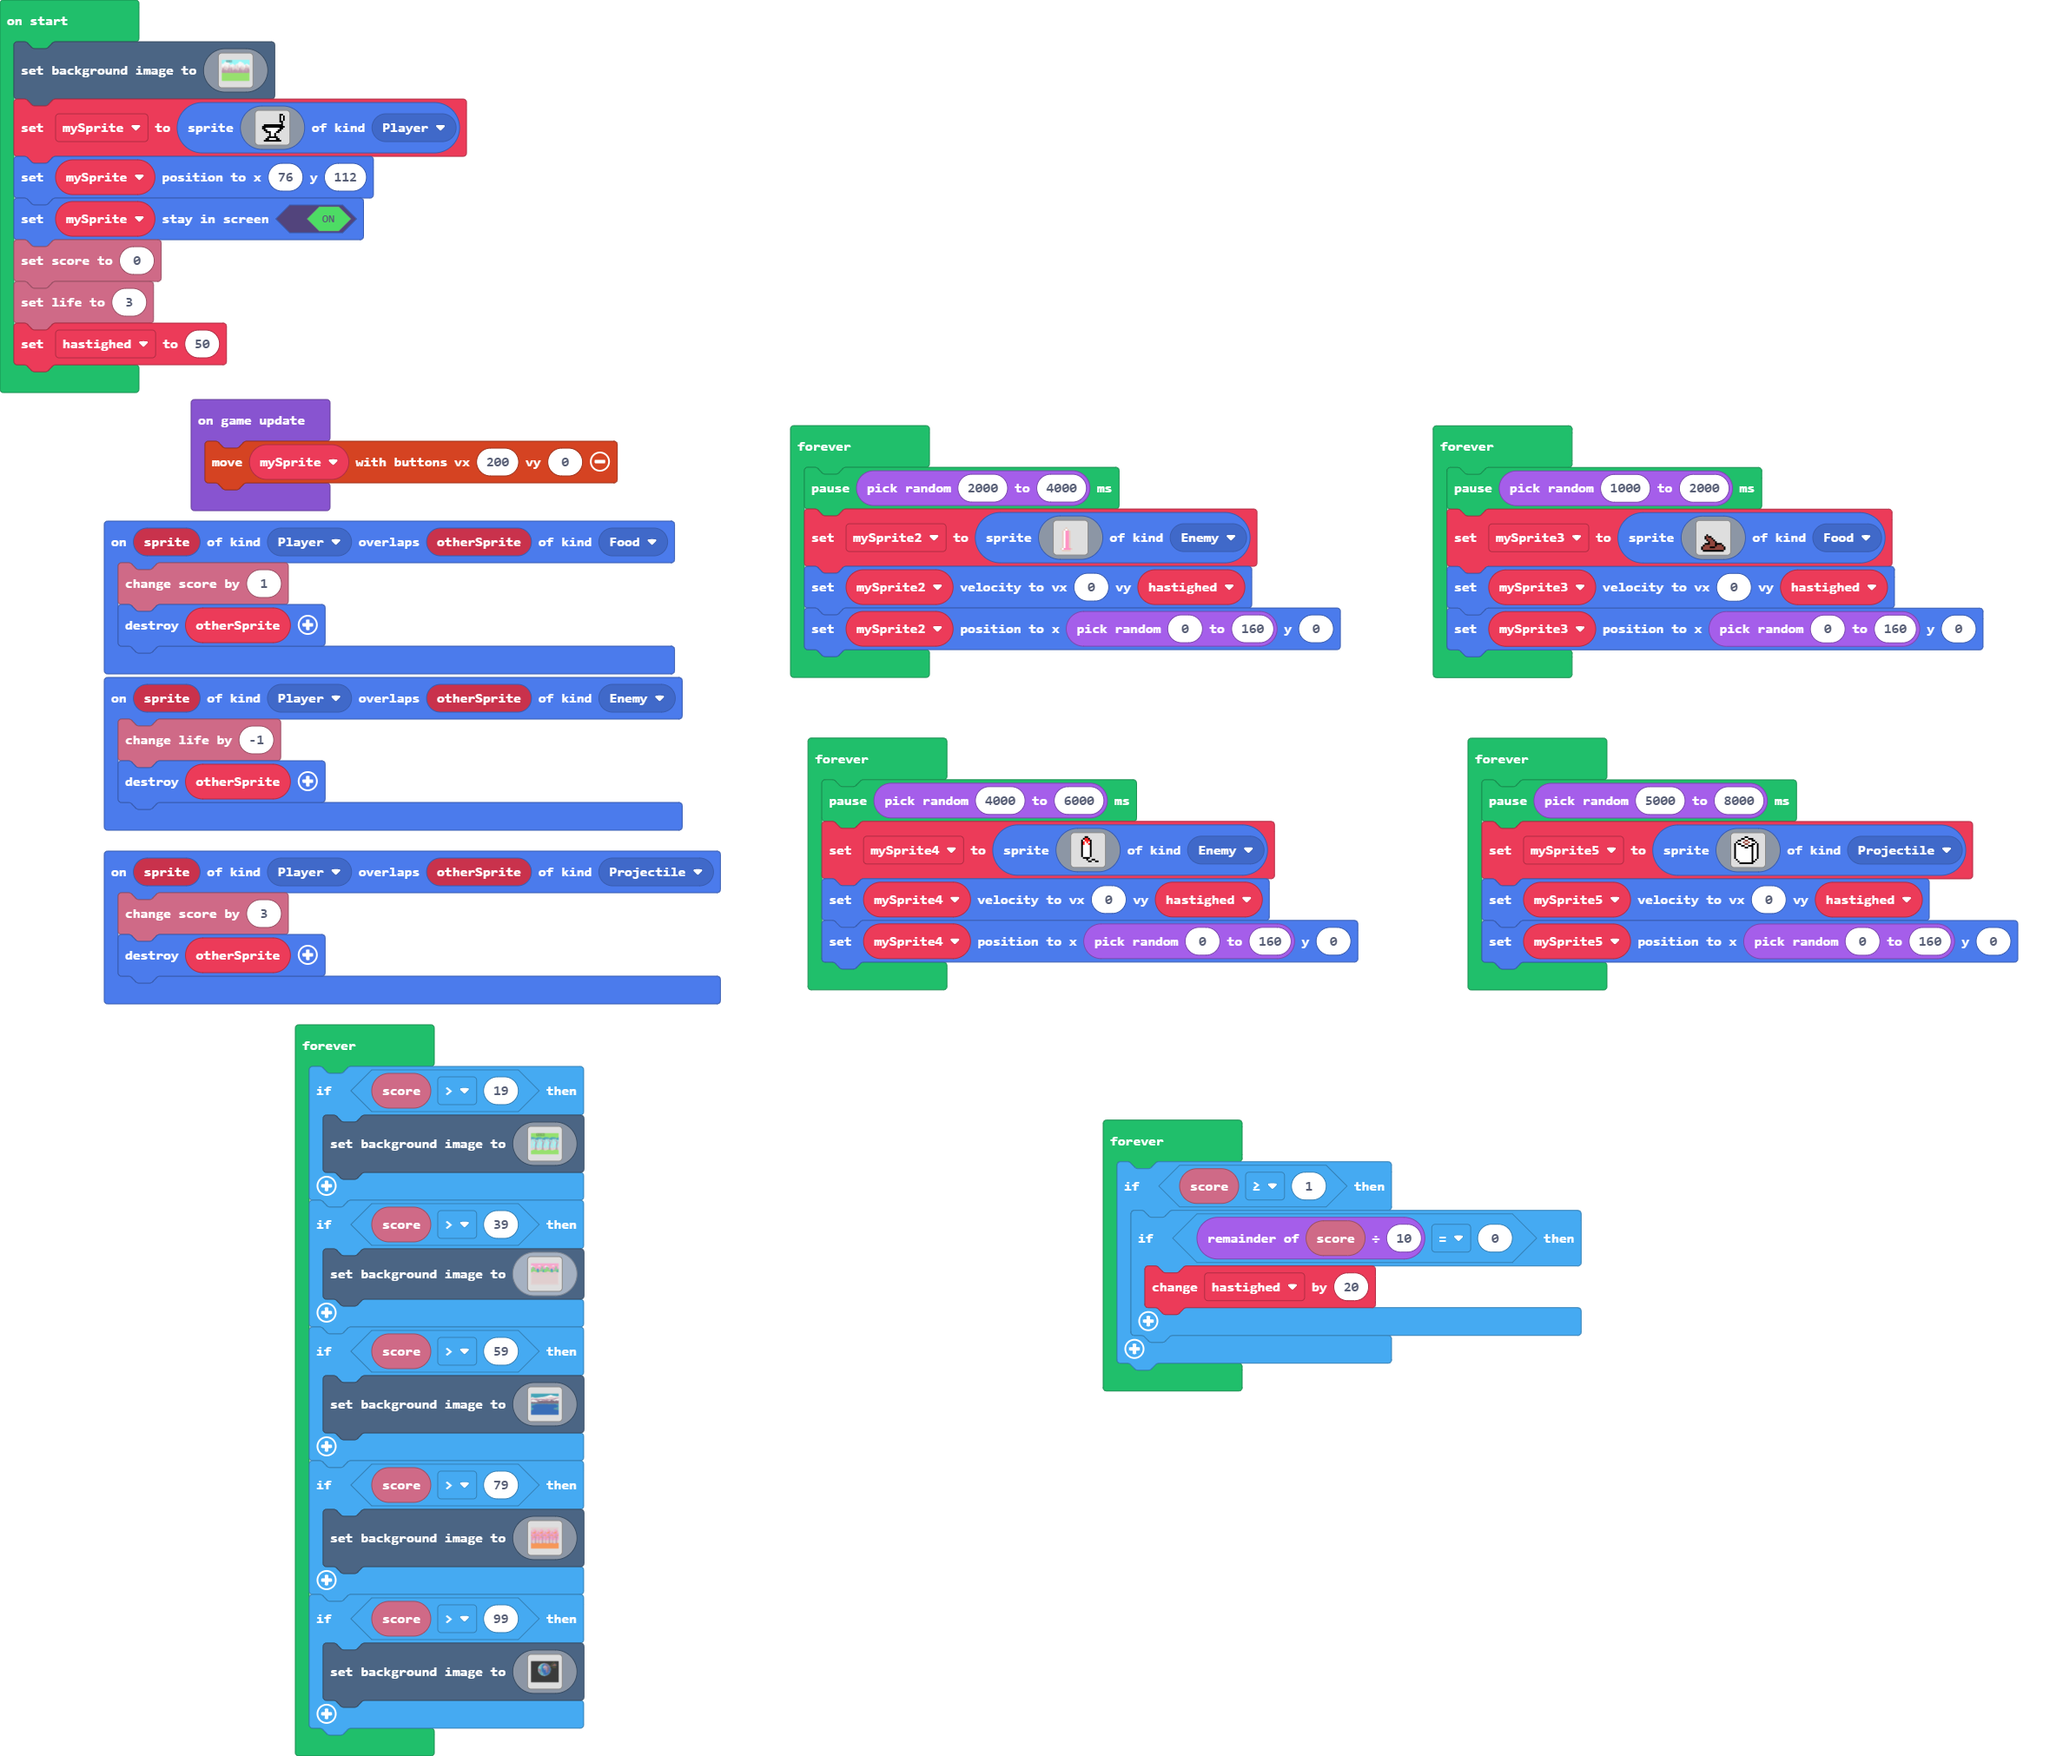
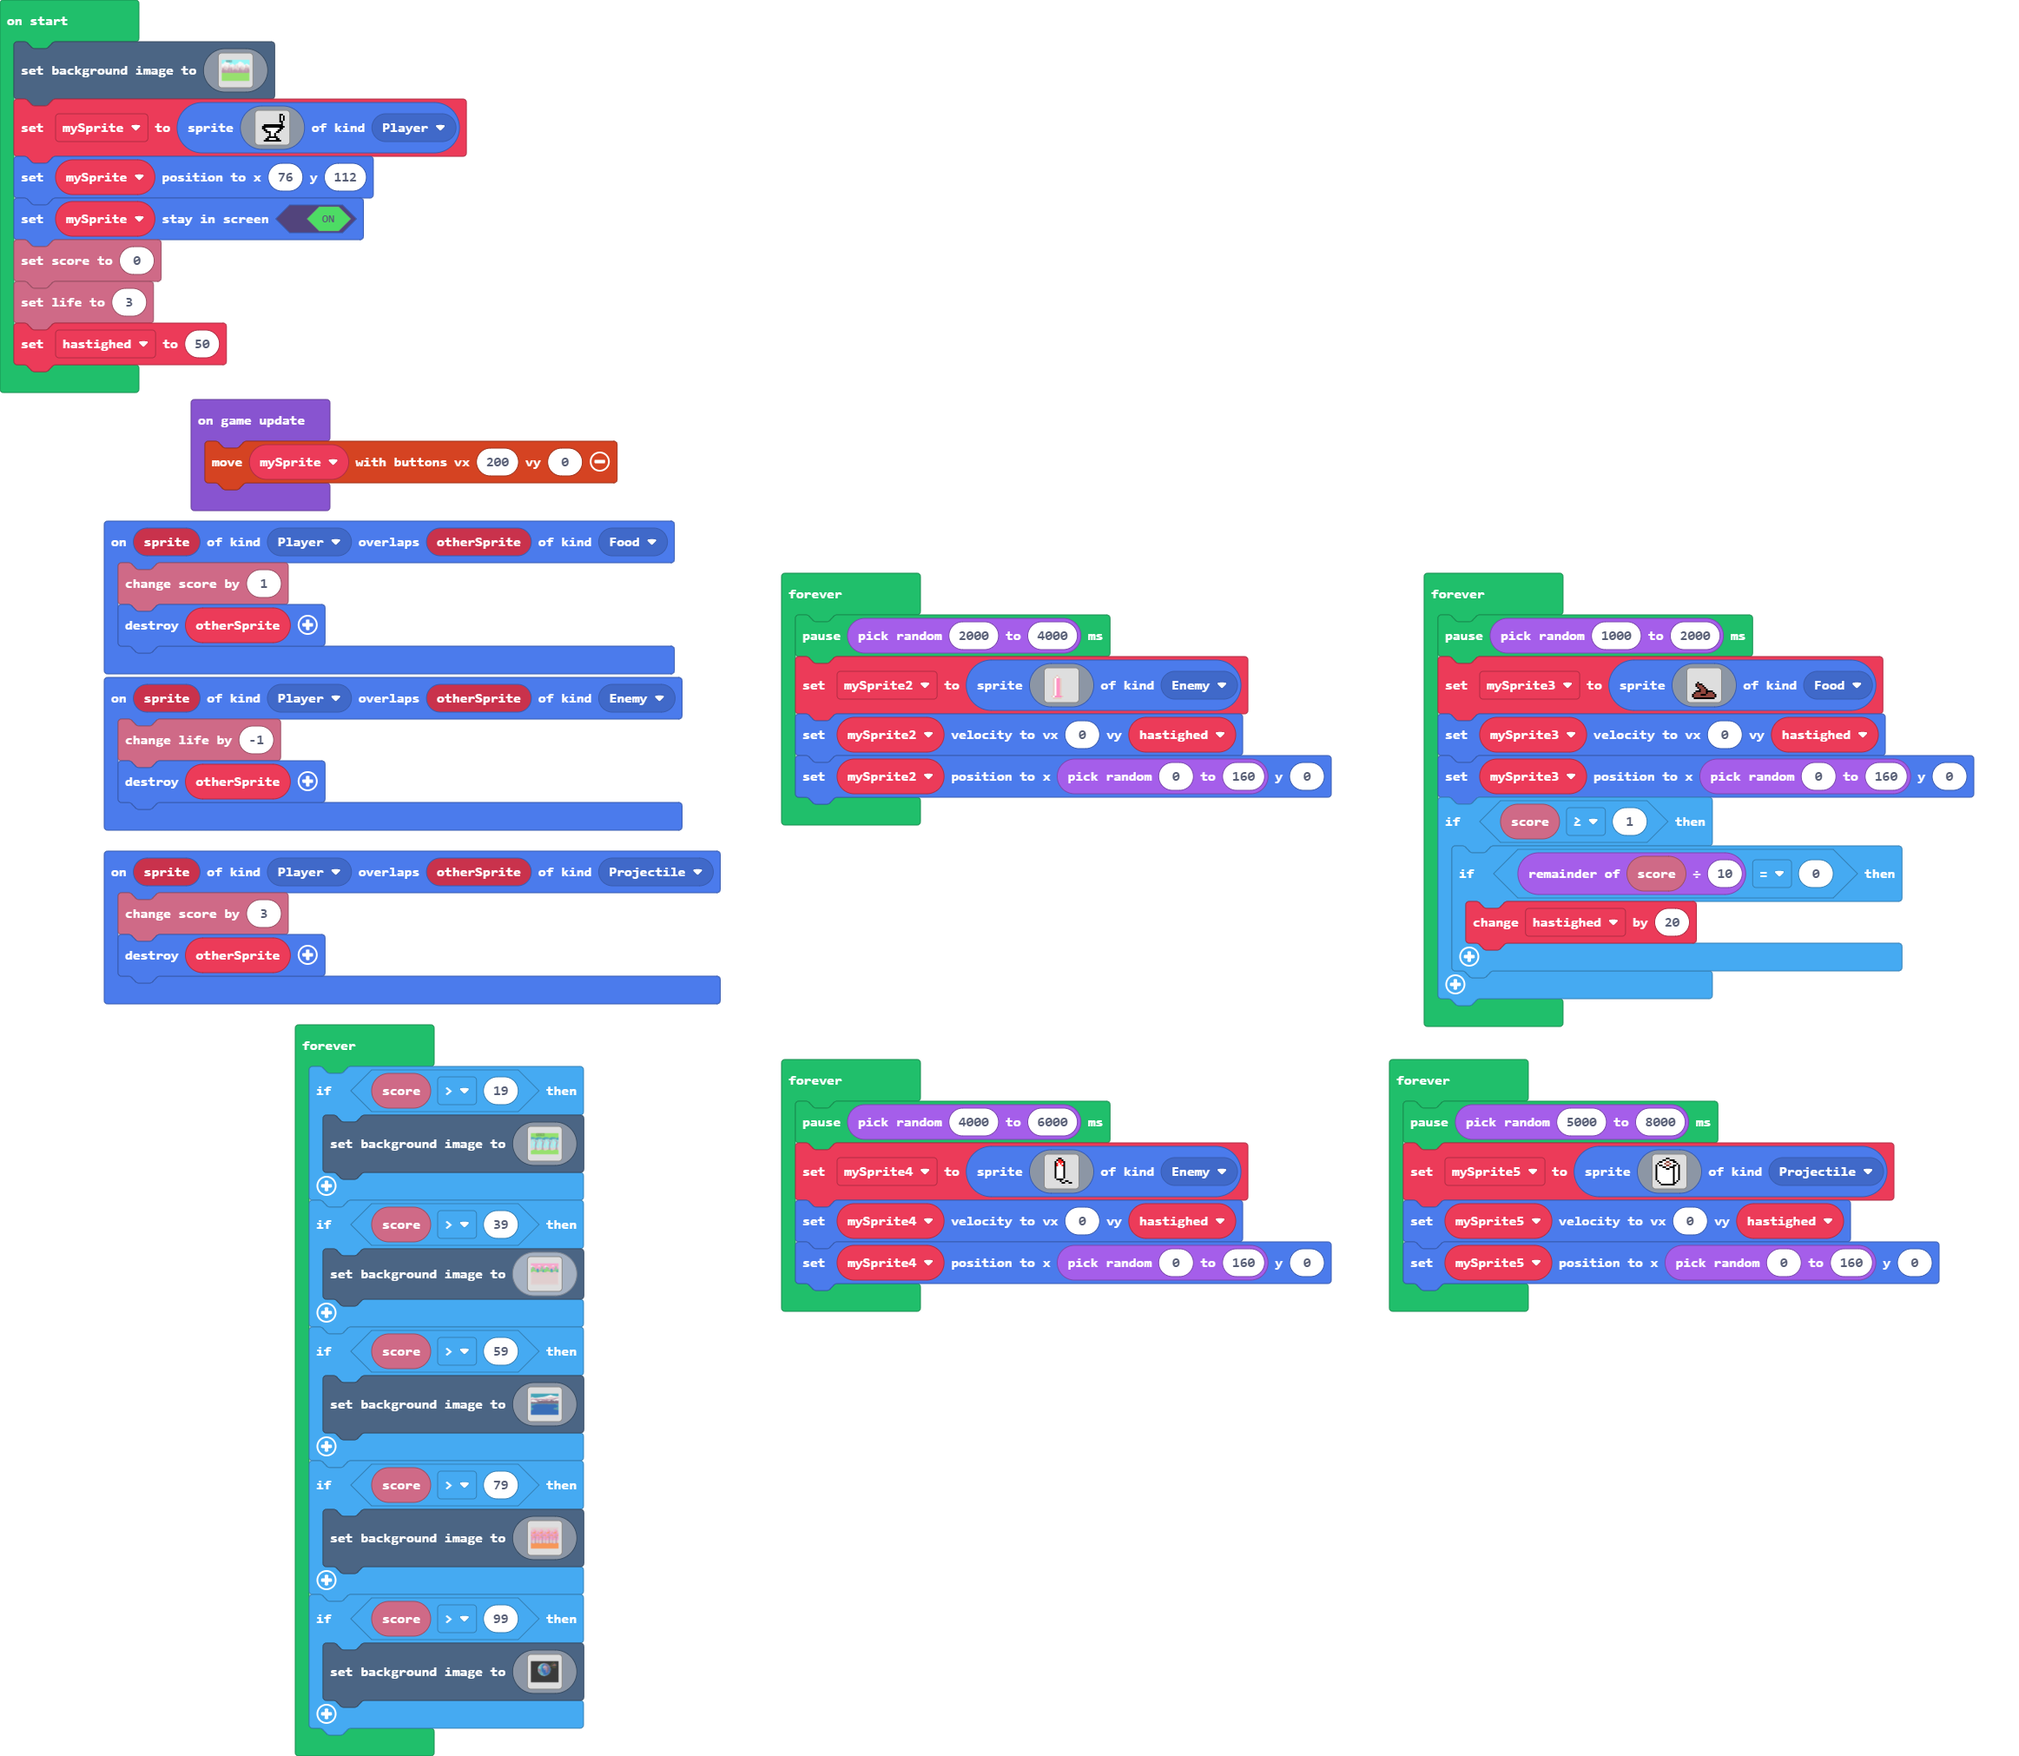
Update main.blocks, main.ts

diff --git a/main.ts b/main.ts
@@ -52,18 +52,11 @@ forever(function () {
     mySprite3 = sprites.create(assets.image`Fjende lort`, SpriteKind.Food)
     mySprite3.setVelocity(0, hastighed)
     mySprite3.setPosition(randint(0, 160), 0)
-})
-forever(function () {
-    pause(randint(4000, 6000))
-    mySprite4 = sprites.create(assets.image`Tampon`, SpriteKind.Enemy)
-    mySprite4.setVelocity(0, hastighed)
-    mySprite4.setPosition(randint(0, 160), 0)
-})
-forever(function () {
-    pause(randint(5000, 8000))
-    mySprite5 = sprites.create(assets.image`Toiletpapir`, SpriteKind.Projectile)
-    mySprite5.setVelocity(0, hastighed)
-    mySprite5.setPosition(randint(0, 160), 0)
+    if (info.score() >= 1) {
+        if (info.score() % 10 == 0) {
+            hastighed += 20
+        }
+    }
 })
 forever(function () {
     if (info.score() > 19) {
@@ -446,9 +439,14 @@ forever(function () {
     }
 })
 forever(function () {
-    if (info.score() >= 1) {
-        if (info.score() % 10 == 0) {
-            hastighed += 20
-        }
-    }
+    pause(randint(4000, 6000))
+    mySprite4 = sprites.create(assets.image`Tampon`, SpriteKind.Enemy)
+    mySprite4.setVelocity(0, hastighed)
+    mySprite4.setPosition(randint(0, 160), 0)
+})
+forever(function () {
+    pause(randint(5000, 8000))
+    mySprite5 = sprites.create(assets.image`Toiletpapir`, SpriteKind.Projectile)
+    mySprite5.setVelocity(0, hastighed)
+    mySprite5.setPosition(randint(0, 160), 0)
 })
